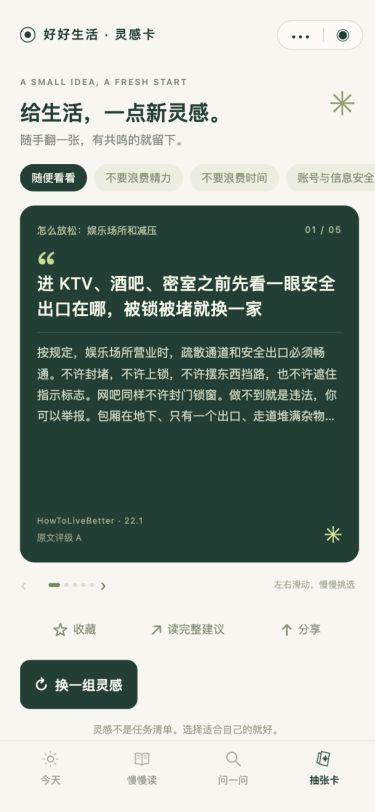
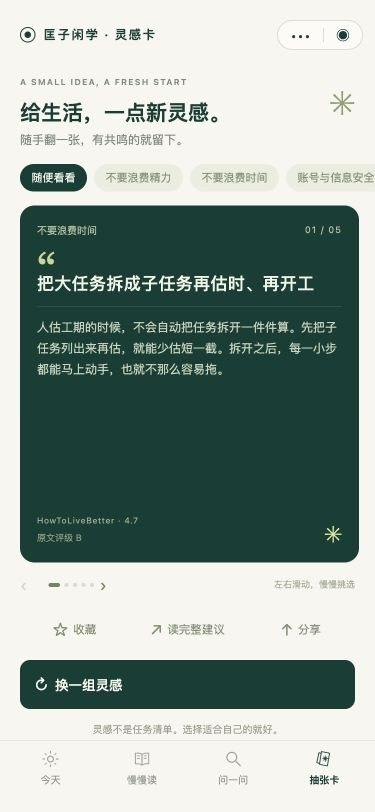
Rename mini program to 匡子闲学

diff --git a/preview/index.html b/preview/index.html
@@ -2,14 +2,14 @@
 <html lang="zh-CN">
 <head>
   <meta charset="utf-8"><meta name="viewport" content="width=device-width, initial-scale=1">
-  <title>好好生活 · 小程序交互预览</title>
+  <title>匡子闲学 · 小程序交互预览</title>
   <link rel="stylesheet" href="/preview/preview.css">
   <style id="native-style"></style><style id="page-style"></style>
 </head>
 <body>
   <main class="preview-layout">
     <aside class="intro">
-      <div class="intro-brand"><span class="intro-logo">◎</span> 好好生活 <span class="version">0.1</span></div>
+      <div class="intro-brand"><span class="intro-logo">◎</span> 匡子闲学 <span class="version">0.1</span></div>
       <p class="intro-eyebrow">A FIELD GUIDE TO A BETTER LIFE</p>
       <h1>不必一下子<br>改变人生。<br><em>先做好一件小事。</em></h1>
       <p class="intro-body">把有出处的生活建议装进口袋。<br>慢慢读，带着问题查，或者随手抽一张。</p>

diff --git a/miniprogram/pages/cards/index.js b/miniprogram/pages/cards/index.js
@@ -48,6 +48,6 @@ Page({
   openCurrent() { const current = this.data.cards[this.data.current]; if (current) openEntry(current.id); },
   onShareAppMessage() {
     const entry = this.data.cards[this.data.current];
-    return entry ? { title: `好好生活 · ${entry.title}`, path: `/pages/detail/index?id=${encodeURIComponent(entry.id)}` } : { title: '好好生活 · 抽几张生活灵感', path: '/pages/cards/index' };
+    return entry ? { title: `匡子闲学 · ${entry.title}`, path: `/pages/detail/index?id=${encodeURIComponent(entry.id)}` } : { title: '匡子闲学 · 抽几张生活灵感', path: '/pages/cards/index' };
   }
 });

diff --git a/miniprogram/pages/detail/index.js b/miniprogram/pages/detail/index.js
@@ -38,6 +38,6 @@ Page({
   openAbout() { wx.navigateTo({ url: '/pages/about/index' }); },
   onShareAppMessage() {
     const entry = this.data.entry;
-    return entry ? { title: `好好生活 · ${entry.title}`, path: `/pages/detail/index?id=${encodeURIComponent(entry.id)}` } : { title: '好好生活 · 每天一个小改变', path: '/pages/home/index' };
+    return entry ? { title: `匡子闲学 · ${entry.title}`, path: `/pages/detail/index?id=${encodeURIComponent(entry.id)}` } : { title: '匡子闲学 · 每天一个小改变', path: '/pages/home/index' };
   }
 });

diff --git a/miniprogram/pages/home/index.js b/miniprogram/pages/home/index.js
@@ -22,5 +22,5 @@ Page({
   openLibrary() { getApp().globalData.libraryChapterId = 'all'; wx.switchTab({ url: '/pages/library/index' }); },
   openSearch() { wx.switchTab({ url: '/pages/search/index' }); },
   openAbout() { wx.navigateTo({ url: '/pages/about/index' }); },
-  onShareAppMessage() { return { title: '好好生活 · 每天一个小改变', path: '/pages/home/index' }; }
+  onShareAppMessage() { return { title: '匡子闲学 · 每天一个小改变', path: '/pages/home/index' }; }
 });

diff --git a/miniprogram/pages/library/index.js b/miniprogram/pages/library/index.js
@@ -43,5 +43,5 @@ Page({
   },
   showChapters() { this.setData({ selectedChapter: null, filter: '', visibleChapters: this.data.chapters }); },
   openEntry(event) { openEntry(event.currentTarget.dataset.id); },
-  onShareAppMessage() { return { title: '好好生活 · 按章节读一份生活指南', path: '/pages/library/index' }; }
+  onShareAppMessage() { return { title: '匡子闲学 · 按章节读一份生活指南', path: '/pages/library/index' }; }
 });

diff --git a/miniprogram/pages/search/index.js b/miniprogram/pages/search/index.js
@@ -22,5 +22,5 @@ Page({
   },
   openEntry(event) { openEntry(event.currentTarget.dataset.id); },
   openLibrary() { getApp().globalData.libraryChapterId = 'all'; wx.switchTab({ url: '/pages/library/index' }); },
-  onShareAppMessage() { return { title: '好好生活 · 让生活问题有出处可循', path: '/pages/search/index' }; }
+  onShareAppMessage() { return { title: '匡子闲学 · 让生活问题有出处可循', path: '/pages/search/index' }; }
 });

diff --git a/miniprogram/config/release.js b/miniprogram/config/release.js
@@ -1,6 +1,6 @@
 // 这些是可公开资料，不要在这里填写密码、AppSecret、私人手机号或证件信息。
 module.exports = {
-  name: '好好生活',
+  name: '匡子闲学',
   version: '0.1.0',
   operator: '',
   contact: '',

diff --git a/README.md b/README.md
@@ -1,8 +1,8 @@
-# 好好生活 · Easy Life
+# 匡子闲学
 
 把有出处的生活建议装进口袋。基于 [HowToLiveBetter](https://github.com/eternity4719/HowToLiveBetter) 的原生微信小程序，支持顺序阅读、问题检索、随机卡片和本地收藏。
 
-**当前是开发版，上线安排已暂缓，不是已上线的小程序。** 微信账号、真实 AppID、主体类目确认、备案、开发者工具编译和真机验收、提审与发布留待恢复上线工作时完成。用户不需要登录；首版不使用服务器、云开发、模型 API 或付费依赖。
+**当前是开发版，正在准备备案与提审，尚未正式上线。** 小程序名称已按项目所有者确认更新为“匡子闲学”；真实 AppID、主体类目和前置审批要求、备案结果、开发者工具编译和真机验收、提审与发布仍需逐项完成和核实。用户不需要登录；首版不使用服务器、云开发、模型 API 或付费依赖。
 
 ## 产品
 

diff --git a/docs/DEVELOPMENT-STATUS.md b/docs/DEVELOPMENT-STATUS.md
@@ -1,6 +1,6 @@
 # 开发状态 · 2026-09-30
 
-上线安排按项目所有者要求暂缓。此文记录开发交付的实际边界，避免将代码完成等同微信发布。
+项目已恢复备案与提审准备，小程序名称按项目所有者确认更新为“匡子闲学”。此文记录开发交付的实际边界，避免将代码完成等同微信发布。
 
 ## 已完成
 
@@ -21,4 +21,4 @@
 - 微信账号与 AppID、类目和主体准入、备案、审核及正式发布。
 - 全书专业医学、法律和金融审校；仅对已经发现的一条催吐备注作显式修订。
 
-恢复上线工作时，按照 `WECHAT-LAUNCH.md` 补齐账号信息、官方工具编译、真机验收、备案和提审。当前无需付费资源或模型密钥。
+继续按照 `WECHAT-LAUNCH.md` 补齐账号信息、官方工具编译、真机验收、备案和提审。当前无需付费资源或模型密钥。

diff --git a/docs/PRODUCT.md b/docs/PRODUCT.md
@@ -1,4 +1,4 @@
-# 好好生活：首版产品约定
+# 匡子闲学：首版产品约定
 
 目标：用户能在一分钟内找到一条可理解、有出处的生活资料，并愿意在需要时回来。不是打卡任务清单，不用登录或充值，不承诺个性化专业建议。
 
@@ -12,7 +12,7 @@
 
 ## 视觉与文案
 
-- 暂定名：好好生活；最终名称通过微信后台检查后确认。
+- 小程序名称：匡子闲学；根据项目所有者确认同步，简称使用同名。
 - 色彩：背景 `#F8F6EF`，墨绿 `#183F35`，点缀 `#DDEA9B`。
 - 米白纸面、圆角卡片、细线与少量几何元素，不引入大图、外链字体或网络依赖。
 - 用“原文评级”“相关建议”“阅读原文与出处”，不使用虚构的 AI 回答、审核认证或统计数据。
